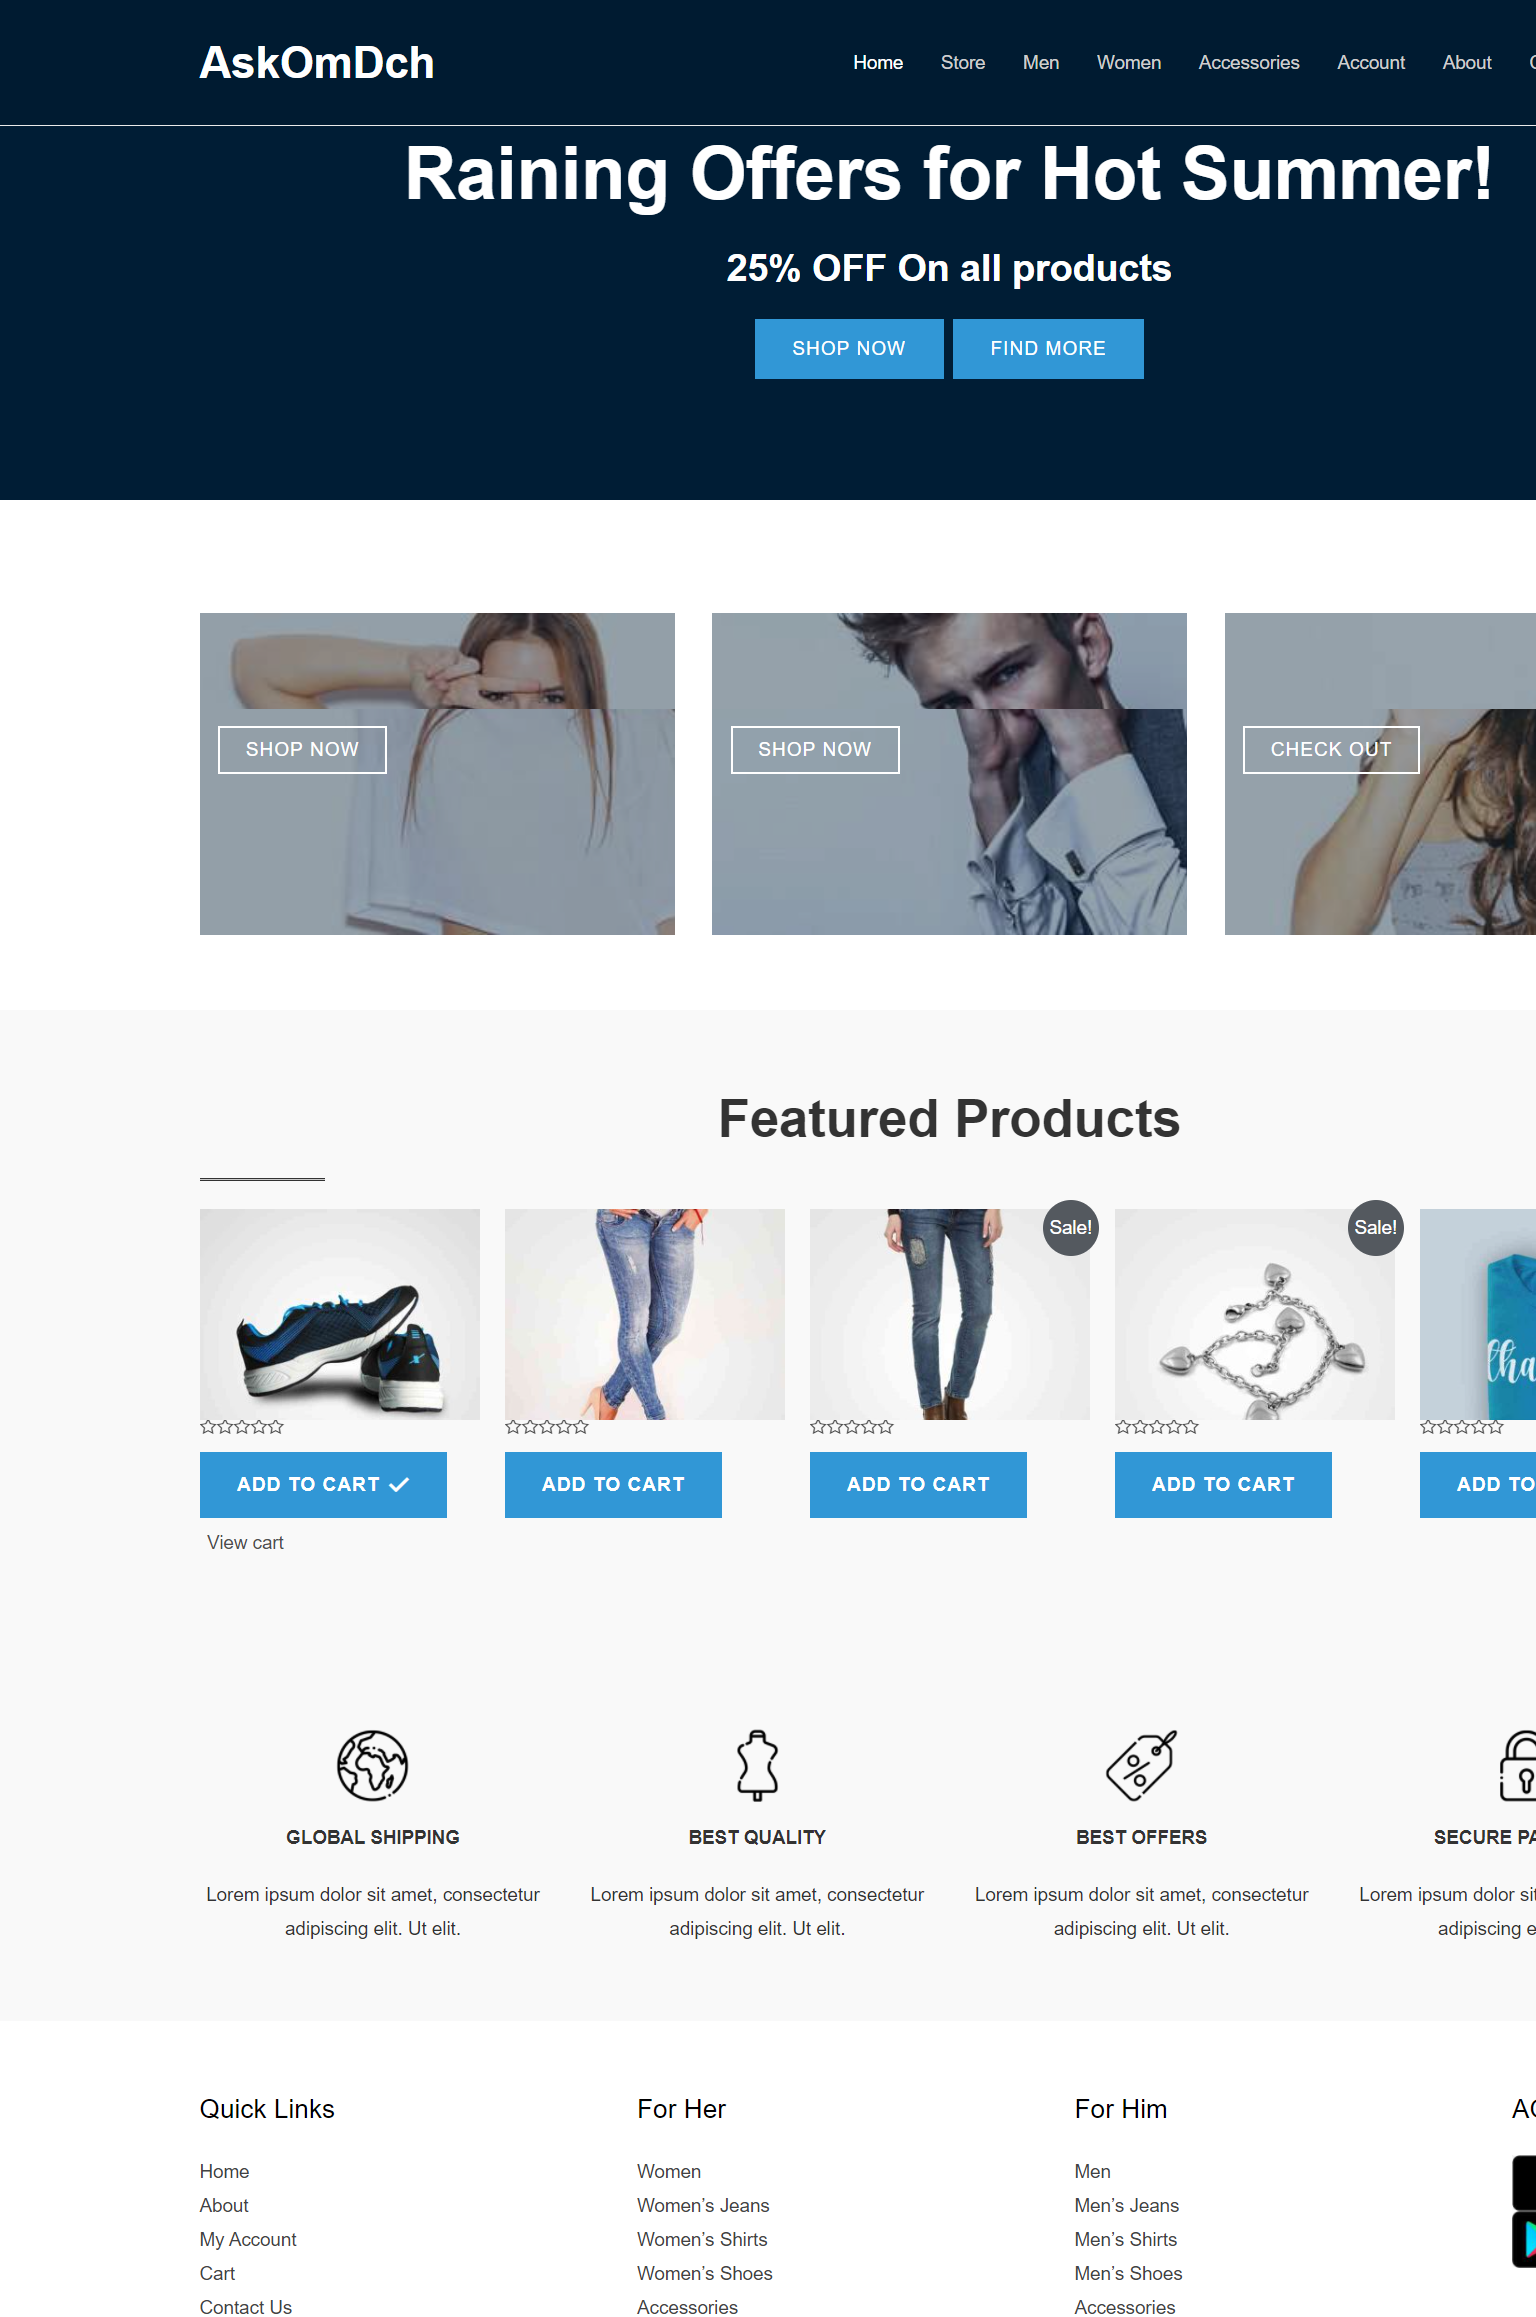
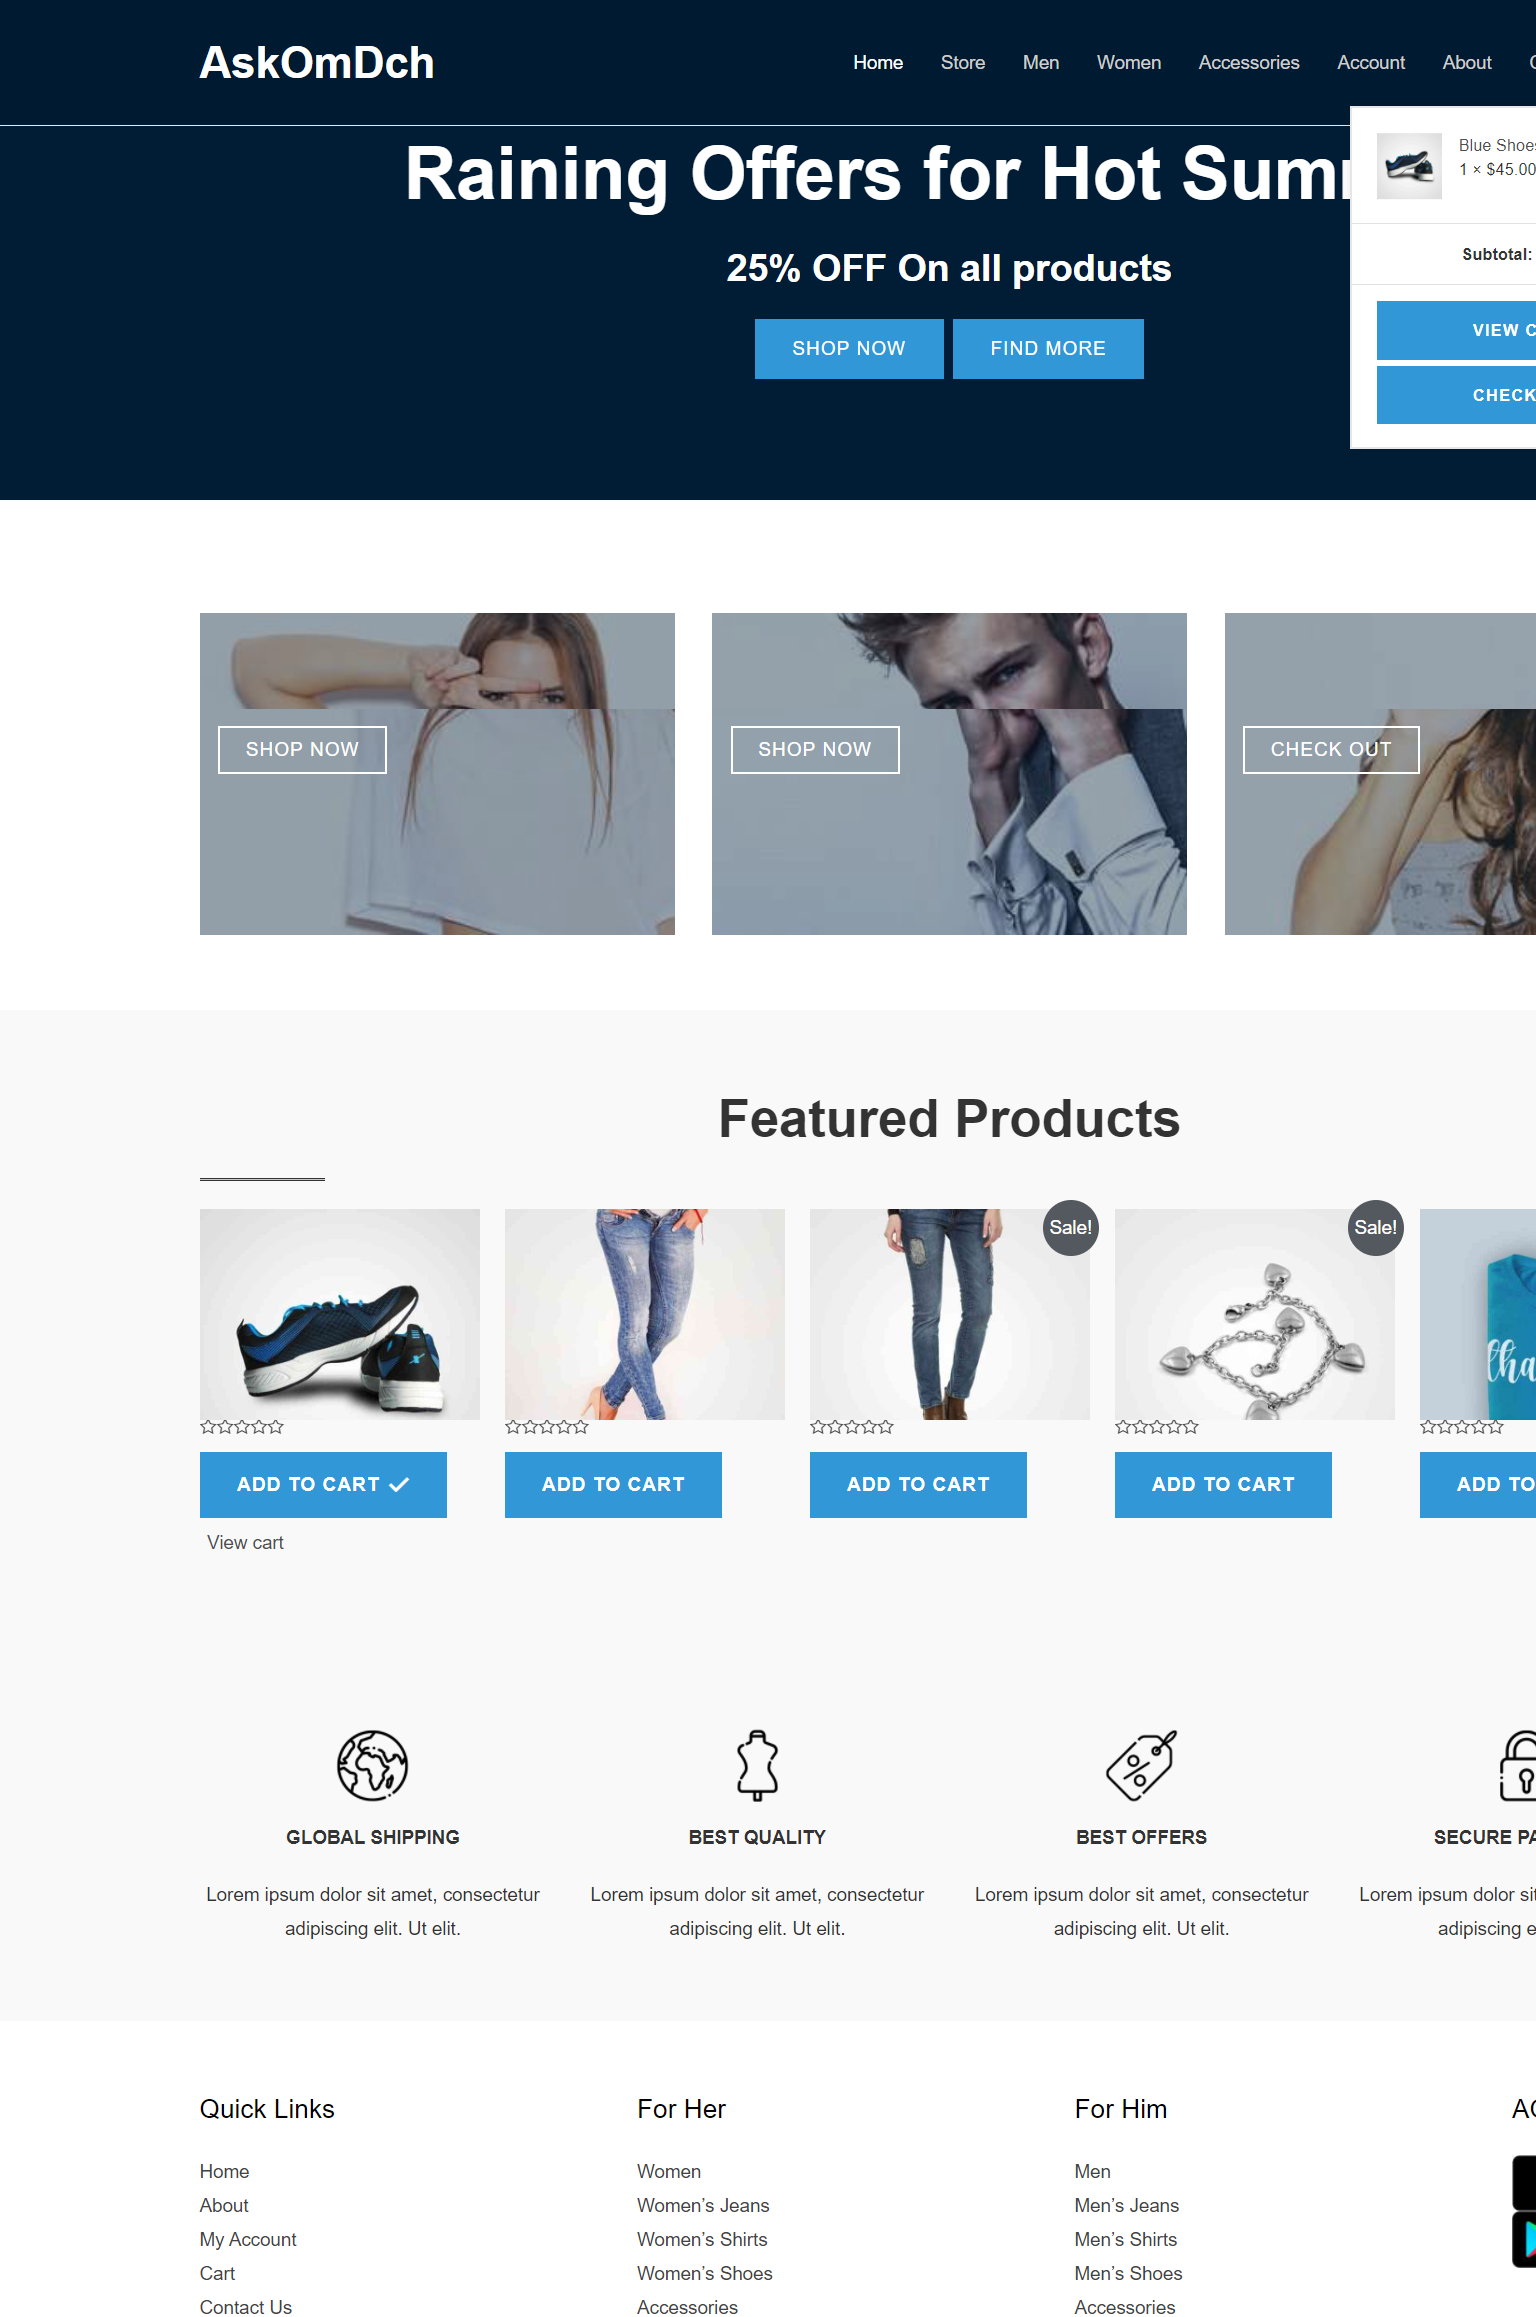
new changes

Changed region(s): [[0.875, 0.0311, 1.0, 0.2175]]

diff --git a/src/test/java/org/selenium/pom/pages/components/MyFooter.java b/src/test/java/org/selenium/pom/pages/components/MyFooter.java
@@ -1,0 +1,119 @@
+package org.selenium.pom.pages.components;
+
+import org.openqa.selenium.By;
+import org.openqa.selenium.Keys;
+import org.openqa.selenium.WebDriver;
+import org.openqa.selenium.WebElement;
+import org.openqa.selenium.support.ui.ExpectedConditions;
+import org.selenium.pom.base.BasePage;
+
+import java.util.List;
+
+public class MyFooter extends BasePage {
+
+    private By footerQuickLinksCheck = By.xpath("//*[@id='menu-quick-links']//li//a");
+    private By footerHorHerLinksCheck = By.xpath("//*[@id='menu-for-her']//li//a");
+    private By footerHorHimLinksCheck = By.xpath("//*[@id='menu-for-him']//li//a");
+    private By footerAppStoreLinksCheck = By.xpath("//*[@class='textwidget']//p//a");
+    private By footerLinks = By.xpath("//*[@class='ast-builder-grid-row-container-inner']//a");
+    String clicklnk = Keys.chord(Keys.CONTROL, Keys.ENTER);
+
+    public MyFooter(WebDriver driver) {
+        super(driver);
+    }
+
+    public List<WebElement> getFooterLinks(){
+        List<WebElement> list = wait.until(ExpectedConditions.visibilityOfAllElementsLocatedBy(footerLinks));
+        return list;
+    }
+
+    public List<WebElement> getFooterQuickLinks(){
+        List<WebElement> list = wait.until(ExpectedConditions.visibilityOfAllElementsLocatedBy(footerQuickLinksCheck));
+        return list;
+    }
+
+    public List<WebElement> getFooterHerLinks(){
+        List<WebElement> list = wait.until(ExpectedConditions.visibilityOfAllElementsLocatedBy(footerHorHerLinksCheck));
+        return list;
+    }
+
+    public List<WebElement> getFooterHimLinks(){
+        List<WebElement> list = wait.until(ExpectedConditions.visibilityOfAllElementsLocatedBy(footerHorHimLinksCheck));
+        return list;
+    }
+
+    public List<WebElement> getFooterAppLinks(){
+        List<WebElement> list = wait.until(ExpectedConditions.visibilityOfAllElementsLocatedBy(footerAppStoreLinksCheck));
+        return list;
+    }
+
+
+
+    public MyFooter footerQuickLinks() {
+        for (WebElement e : getFooterQuickLinks()) {
+            e.sendKeys(clicklnk);
+            System.out.println("URL IN href : "+e.getAttribute("href"));
+            driverWindowSwitch();
+
+        }
+        return this;
+    }
+    public MyFooter footerHerLinks() {
+        for (WebElement e : getFooterHerLinks()) {
+            e.sendKeys(clicklnk);
+            System.out.println("URL IN href : "+e.getAttribute("href"));
+            driverWindowSwitch();
+        }
+        return this;
+    }
+    public MyFooter footerHimLinks() {
+        for (WebElement e : getFooterHimLinks()) {
+            e.sendKeys(clicklnk);
+            System.out.println("URL IN href : "+e.getAttribute("href"));
+            driverWindowSwitch();
+        }
+        return this;
+    }
+
+    public MyFooter footerAppsLinks() {
+        for (WebElement e : getFooterAppLinks()) {
+            e.sendKeys(clicklnk);
+            System.out.println("URL IN href : "+e.getAttribute("href"));
+            driverWindowSwitch();
+        }
+        return this;
+    }
+
+    public MyFooter footerLinksCheck() {
+        for (WebElement e : getFooterLinks()) {
+            e.sendKeys(clicklnk);
+            System.out.println("URL IN href : "+e.getAttribute("href"));
+            driverWindowSwitch();
+        }
+        return this;
+    }
+
+    public void driverWindowSwitch() {
+        //Current window handle
+        String winHandleBefore = driver.getWindowHandle();
+        //Handle new open window
+        for (String winHandle : driver.getWindowHandles()) {
+            driver.switchTo().window(winHandle);}
+            //perform action on new window
+            System.out.println("URL OF WINDOW : "+driver.getCurrentUrl());
+            System.out.println("TITLE OF WINDOW : "+driver.getTitle());
+            //close new window
+            driver.close();
+            // Switch back to original browser (first window)
+            driver.switchTo().window(winHandleBefore);
+
+        }
+
+
+
+    }
+
+
+
+
+

diff --git a/src/test/java/org/selenium/pom/pages/components/MyHeader.java b/src/test/java/org/selenium/pom/pages/components/MyHeader.java
@@ -18,7 +18,7 @@ public class MyHeader extends BasePage {
     private By homeContactUsLink = By.id("menu-item-1233");
     private By miniCart = By.cssSelector(".cart-container");
     private By productTitleOnMiniCart = By.xpath("//div[@class='site-primary-header-wrap ast-builder-grid-row-container site-header-focus-item ast-container']//a[normalize-space()='Blue Shoes']");
-
+    private By getSubTotalFromMiniCart = By.xpath("//*[contains(text(),'Subtotal:')]//..//span//bdi[1]");
 
     public MyHeader(WebDriver driver) {
         super(driver);
@@ -67,6 +67,12 @@ public class MyHeader extends BasePage {
     public String getProductTitleOnMiniCart(String productName){
         return wait.until(ExpectedConditions.visibilityOfElementLocated(getProductTitleOnMiniCartByElement(productName))).getText();
 
+    }
+
+    public double getSubTotalFromMiniCart(){
+        String subTotal=wait.until(ExpectedConditions.visibilityOfElementLocated(getSubTotalFromMiniCart)).getText();
+        subTotal = subTotal.replaceAll("\\$","");
+        return Double.parseDouble(subTotal);
     }
 
 

diff --git a/src/test/java/org/selenium/pom/tests/FooterTest.java b/src/test/java/org/selenium/pom/tests/FooterTest.java
@@ -1,0 +1,39 @@
+package org.selenium.pom.tests;
+
+import org.selenium.pom.base.BaseTest;
+import org.selenium.pom.pages.HomePage;
+import org.testng.annotations.Test;
+
+public class FooterTest extends BaseTest {
+
+
+    @Test
+    public void footerLinksCheck(){
+        HomePage homePage=new HomePage(getDriver()).load();
+        homePage.getMyFooter().footerLinksCheck();
+    }
+
+    @Test
+    public void footerQuickLinks(){
+        HomePage homePage=new HomePage(getDriver()).load();
+        homePage.getMyFooter().footerQuickLinks();
+    }
+
+    @Test
+    public void footerHerLinks(){
+        HomePage homePage=new HomePage(getDriver()).load();
+        homePage.getMyFooter().footerHerLinks();
+    }
+
+    @Test
+    public void footerHimLinks(){
+        HomePage homePage=new HomePage(getDriver()).load();
+        homePage.getMyFooter().footerHimLinks();
+    }
+
+    @Test
+    public void footerAppsLinks(){
+        HomePage homePage=new HomePage(getDriver()).load();
+        homePage.getMyFooter().footerAppsLinks();
+    }
+}

diff --git a/src/test/java/org/selenium/pom/pages/HomePage.java b/src/test/java/org/selenium/pom/pages/HomePage.java
@@ -4,6 +4,7 @@ import org.openqa.selenium.By;
 import org.openqa.selenium.WebDriver;
 import org.openqa.selenium.support.ui.ExpectedConditions;
 import org.selenium.pom.base.BasePage;
+import org.selenium.pom.pages.components.MyFooter;
 import org.selenium.pom.pages.components.MyHeader;
 import org.selenium.pom.pages.components.ProductThumbnail;
 
@@ -11,6 +12,17 @@ public class HomePage extends BasePage {
 
     private MyHeader myHeader;
     private ProductThumbnail productThumbnail;
+    private MyFooter myFooter;
+
+    public MyFooter getMyFooter() {
+        return myFooter;
+    }
+
+    public void setMyFooter(MyFooter myFooter) {
+        this.myFooter = myFooter;
+    }
+
+
 
     public MyHeader getMyHeader() {
         return myHeader;
@@ -36,6 +48,7 @@ public class HomePage extends BasePage {
         super(driver);
         myHeader= new MyHeader(driver);
         productThumbnail = new ProductThumbnail(driver);
+        myFooter = new MyFooter(driver);
     }
 
 

diff --git a/src/test/java/org/selenium/pom/tests/AddToMiniCartTest.java b/src/test/java/org/selenium/pom/tests/AddToMiniCartTest.java
@@ -34,7 +34,10 @@ public class AddToMiniCartTest extends BaseTest {
         double productPrice=homePage.getProductThumbnail().clickAddToCartBtn(product.getName()).productPriceInInt(product.getName());
         System.out.println("PRODUCT PRICE : "+productPrice);
         homePage.getMyHeader().hoverOverMiniCart();
+        double productSubTotal = homePage.getMyHeader().getSubTotalFromMiniCart();
+        System.out.println("PRODUCT SUBTOTAL PRICE ON MINI CART : "+productSubTotal);
         Assert.assertEquals(product.getName(),homePage.getMyHeader().getProductTitleOnMiniCart(product.getName()));
+        Assert.assertEquals(productPrice,productSubTotal);
         System.out.println("PRODUCT NAME ADDED TO CART : "+product.getName());
         System.out.println("PRODUCT TITLE FROM MINI CART : "+homePage.getMyHeader().getProductTitleOnMiniCart(product.getName()));
 

diff --git a/src/test/java/org/selenium/pom/pages/components/ProductThumbnail.java b/src/test/java/org/selenium/pom/pages/components/ProductThumbnail.java
@@ -23,6 +23,7 @@ public class ProductThumbnail extends BasePage {
     public ProductThumbnail clickAddToCartBtn(String productName){
         By addToCartBtn = getAddToCardByElement(productName);
         wait.until(ExpectedConditions.elementToBeClickable(addToCartBtn)).click();
+        wait.until(ExpectedConditions.elementToBeClickable(viewCartLink));
         return this;
     }
 
